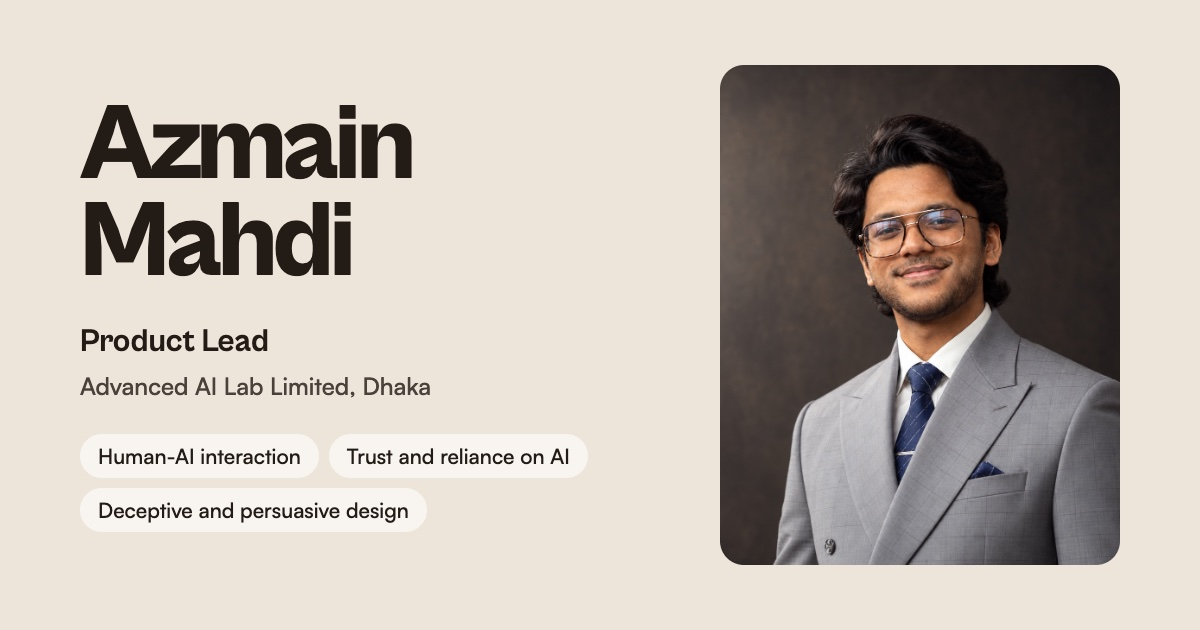
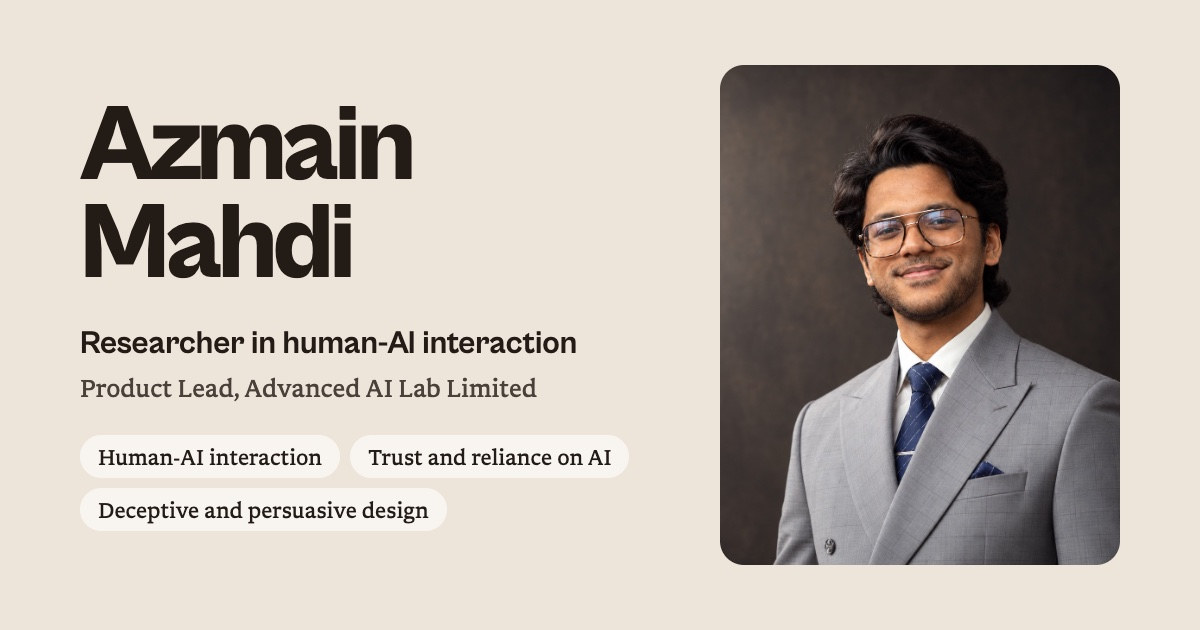
Research-first hero line; AM nav mark; acid yellow-green x-ray; share image and meta text

diff --git a/style.css b/style.css
@@ -539,7 +539,7 @@ nav .links a i{display:none}
 .xray-block{margin:32px 0 8px}
 .xray-block h4{font-size:22px;font-weight:500;letter-spacing:-.01em;margin:0 0 8px}
 .xr-intro{font-size:16px!important;color:var(--soft)!important;margin:0 0 18px!important}
-.xr{--x:50%;--warn:#FF7A59;position:relative;border-radius:20px;overflow:hidden;container-type:inline-size;touch-action:pan-y;user-select:none;-webkit-user-select:none;box-shadow:0 24px 48px -28px rgba(42,33,28,.5),0 0 0 1px var(--line);cursor:ew-resize}
+.xr{--x:50%;position:relative;border-radius:20px;overflow:hidden;container-type:inline-size;touch-action:pan-y;user-select:none;-webkit-user-select:none;box-shadow:0 24px 48px -28px rgba(42,33,28,.5),0 0 0 1px var(--line);cursor:ew-resize}
 .xr-layer{position:relative}
 .xr-ray{position:absolute;inset:0;clip-path:inset(0 0 0 var(--x));pointer-events:none}
 /* the fake site: a hotel booking page in its own browser window, so it reads as somebody else's website */
@@ -647,21 +647,21 @@ nav .links a i{display:none}
 .xr-ray .g5 b{background:transparent;border-color:rgba(140,170,210,.3);color:#7D8FA9}
 .xr-ray .hb-score li i{background:rgba(140,170,210,.18)}
 .xr-ray .hb-stars,.xr-ray .hb-title p,.xr-ray .hb-title p i,.xr-ray .hb-amen,.xr-ray .hb-crumb,.xr-ray .hb-price s,.xr-ray .hb-price span,.xr-ray .hb-note,.xr-ray .hb-score small,.xr-ray .hb-score li,.xr-ray .hb-f span,.xr-ray .hb-tabs,.xr-ray .hb-hl small,.xr-ray .hb-rev p,.xr-ray .hb-acts{color:#5E708A}
-.xr-ray .dp-p{color:#FFD9CC!important;background:rgba(255,122,89,.08);outline:1px solid rgba(255,122,89,.85);outline-offset:3px;border-radius:6px}
+.xr-ray .dp-p{color:var(--warn-ink)!important;background:color-mix(in srgb,var(--warn) 8%,transparent);outline:1px solid color-mix(in srgb,var(--warn) 85%,transparent);outline-offset:3px;border-radius:6px}
 .xr-ray .dp-p i,.xr-ray .dp-p small{color:var(--warn)!important}
-.xr-ray .dp-p .dp-box{outline-color:rgba(255,122,89,.85);color:#FFD9CC}
+.xr-ray .dp-p .dp-box{outline-color:color-mix(in srgb,var(--warn) 85%,transparent);color:var(--warn-ink)}
 .xr-ray .dp-p::before{content:attr(data-label);position:absolute;top:-19px;left:-4px;z-index:1;white-space:nowrap;padding:2px 8px;border-radius:999px;background:var(--warn);color:#0E1626;font:700 10px/1.4 'Libron',sans-serif;letter-spacing:.01em}
 @media (prefers-reduced-motion:no-preference){.xr-ray .dp-p{animation:xr-glow 3.2s ease-in-out infinite}}
-@keyframes xr-glow{50%{box-shadow:0 0 12px 0 rgba(255,122,89,.22)}}
+@keyframes xr-glow{50%{box-shadow:0 0 12px 0 color-mix(in srgb,var(--warn) 22%,transparent)}}
 /* the scan line */
-.xr-line{position:absolute;top:0;bottom:0;left:var(--x);width:2px;margin-left:-1px;background:var(--warn);box-shadow:0 0 10px 1px rgba(255,122,89,.4);pointer-events:none}
+.xr-line{position:absolute;top:0;bottom:0;left:var(--x);width:2px;margin-left:-1px;background:var(--warn);box-shadow:0 0 10px 1px color-mix(in srgb,var(--warn) 40%,transparent);pointer-events:none}
 .xr-grip{position:absolute;top:50%;left:50%;width:38px;height:38px;margin:-19px 0 0 -19px;border-radius:999px;background:#fff;color:#0D1B2E;display:grid;place-items:center;font-size:18px;box-shadow:0 4px 14px rgba(0,0,0,.25)}
 .xr-range{position:absolute;inset:auto 0 0 0;width:100%;opacity:0;height:1px;pointer-events:none}
 .xr:focus-within{outline:2px solid var(--accent);outline-offset:3px}
 /* legend */
 .xr-legend{list-style:none;padding:0;margin:22px 0 0;display:grid;grid-template-columns:repeat(5,minmax(0,1fr));gap:16px 24px}
 .xr-legend li{font-size:14.5px;line-height:1.5;color:var(--body)}
-.xr-legend b{display:table;margin-bottom:6px;padding:2px 9px;border-radius:999px;background:#FF7A59;color:#0E1626;font:700 12px/1.4 'Libron',sans-serif}
+.xr-legend b{display:table;margin-bottom:6px;padding:2px 9px;border-radius:999px;background:var(--warn);color:#0E1626;font:700 12px/1.4 'Libron',sans-serif}
 @media (max-width:900px){.xr-legend{grid-template-columns:1fr 1fr}}
 @media (max-width:640px){.xr-legend{grid-template-columns:1fr}.xray-block h4{font-size:20px}}
 
@@ -803,3 +803,14 @@ nav.over .me{opacity:0;pointer-events:none}
   .xr-ray .dp-p::before{top:-19px;right:auto;left:-4px;transform:none}
   .xr-ray .dp-p::after{display:none}
 }
+
+.xray-block{--warn:#D4FF3D;--warn-ink:color-mix(in srgb,var(--warn) 22%,#fff)}
+/* round 12 (16/10): AM mark in the nav; research-first hero line */
+nav .me{display:inline-flex;align-items:center;gap:10px;opacity:1!important;pointer-events:auto!important;text-decoration:none}
+nav .me .mk{width:34px;height:34px;border-radius:10px;background:var(--ink);color:var(--bg);display:grid;place-items:center;font-family:'Cabinet Grotesk',sans-serif;font-weight:800;font-size:14px;letter-spacing:-.02em;flex:none}
+nav .me .nm{transition:opacity .3s}
+nav.over .me .nm{opacity:0}
+.hero .intro .role{font-size:30px;line-height:1.2;letter-spacing:-.02em;margin-bottom:12px}
+.hero .aff{font-size:15px}
+.hero .aff .logo{width:20px;height:20px}
+@media (max-width:640px){.hero .intro .role{font-size:22px}.hero .aff{font-size:14px}nav .me .mk{width:30px;height:30px;font-size:13px}}

diff --git a/index.html b/index.html
@@ -4,19 +4,19 @@
 <meta charset="utf-8">
 <meta name="viewport" content="width=device-width, initial-scale=1">
 <title>Azmain Mahdi</title>
-<meta name="description" content="Azmain Mahdi, Product Lead at Advanced AI Lab Limited. Research on human-AI interaction, trust in AI and deceptive design.">
+<meta name="description" content="Azmain Mahdi, researcher in human-AI interaction: trust in AI and deceptive design. Product Lead at Advanced AI Lab Limited.">
 <link rel="icon" type="image/png" sizes="32x32" href="assets/favicon-32.png?v=4">
 <link rel="apple-touch-icon" href="assets/apple-touch-icon.png?v=4">
 <meta name="theme-color" content="#EDE5DA">
 <meta property="og:type" content="website">
 <meta property="og:site_name" content="Azmain Mahdi">
 <meta property="og:title" content="Azmain Mahdi">
-<meta property="og:description" content="Azmain Mahdi, Product Lead at Advanced AI Lab Limited. Research on human-AI interaction, trust in AI and deceptive design.">
+<meta property="og:description" content="Azmain Mahdi, researcher in human-AI interaction: trust in AI and deceptive design. Product Lead at Advanced AI Lab Limited.">
 <meta property="og:url" content="https://azmainmahdi.github.io/">
-<meta property="og:image" content="https://azmainmahdi.github.io/assets/og-image.jpg?v=4">
+<meta property="og:image" content="https://azmainmahdi.github.io/assets/og-image.jpg?v=5">
 <meta property="og:image:width" content="1200">
 <meta property="og:image:height" content="630">
-<meta property="og:image:alt" content="Azmain Mahdi, Product Lead, Advanced AI Lab Limited">
+<meta property="og:image:alt" content="Azmain Mahdi, researcher in human-AI interaction">
 <meta name="twitter:card" content="summary_large_image">
 <script>try{var t=localStorage.getItem('theme');if(t)document.documentElement.dataset.theme=t}catch(e){}document.documentElement.classList.add('js');window.addEventListener('pagereveal',function(e){try{var a=navigation.activation;if(!e.viewTransition||!a||!a.from)return;var o=['index','research','work'];function i(u){var m=/\/(\w+)\.html/.exec(u);return m?Math.max(0,o.indexOf(m[1])):0}e.viewTransition.types.add(i(a.entry.url)<i(a.from.url)?'back':'fwd')}catch(x){}});</script>
 <link rel="preconnect" href="https://cdn.jsdelivr.net" crossorigin>
@@ -24,11 +24,11 @@
 <link rel="preload" href="assets/fonts/libron-400.woff2" as="font" type="font/woff2" crossorigin>
 <script type="speculationrules">{"prerender":[{"where":{"href_matches":"/*.html"},"eagerness":"moderate"}]}</script>
 <link rel="stylesheet" href="https://cdn.jsdelivr.net/npm/@tabler/icons-webfont@3.19.0/dist/tabler-icons.min.css">
-<link rel="stylesheet" href="style.css?v=20261016e">
+<link rel="stylesheet" href="style.css?v=20261016g">
 </head>
 <body id="top">
 <nav><div class="wrap">
-<a class="me" href="index.html">Azmain Mahdi</a>
+<a class="me" href="index.html" aria-label="Azmain Mahdi, home"><span class="mk">AM</span><span class="nm">Azmain Mahdi</span></a>
 <div class="links"><a href="index.html" data-home class="on"><i class="ti ti-home" aria-hidden="true"></i><span>Home</span></a><a href="research.html"><i class="ti ti-flask" aria-hidden="true"></i><span>Research</span></a><a href="work.html"><i class="ti ti-briefcase" aria-hidden="true"></i><span>Work</span></a><a href="#methods" class="hide-sm" data-spy="methods"><i class="ti ti-tools" aria-hidden="true"></i><span>Methods</span></a><a href="#contact" data-spy="contact"><i class="ti ti-mail" aria-hidden="true"></i><span>Contact</span></a><button class="theme" aria-label="Switch light or dark mode"></button></div>
 </div></nav>
 
@@ -38,8 +38,8 @@
 <div>
 <h1>Azmain<br>Mahdi</h1>
 <div class="intro">
-<p class="role">Product Lead</p>
-<p class="aff"><img src="assets/aai-icon.svg" alt="" class="logo" width="24" height="24">Advanced AI Lab Limited (ACI AI Business), Dhaka</p>
+<p class="role">Researcher in human-AI interaction</p>
+<p class="aff"><img src="assets/aai-icon.svg" alt="" class="logo" width="24" height="24">Product Lead, Advanced AI Lab Limited</p>
 </div>
 <ul class="interests" aria-label="Research interests"><li>Human-AI interaction</li><li>Trust and reliance on AI</li><li>Deceptive and persuasive design</li><li>Responsible technology</li></ul>
 <div class="actions"><a class="btn primary hb-mail" href="mailto:azmain.one@gmail.com"><i class="ti ti-mail-filled bi"></i>Email<i class="ti ti-arrow-up-right ar"></i></a><a class="btn hb-li" href="https://www.linkedin.com/in/azmain-mahdi"><i class="ti ti-brand-linkedin bi"></i>LinkedIn<i class="ti ti-arrow-up-right ar"></i></a></div>
@@ -106,6 +106,6 @@
 </div>
 <div class="fine-row"><span>&copy; 2026 Azmain Mahdi</span><a href="#top">Back to top <i class="ti ti-arrow-up"></i></a></div>
 </div></footer>
-<script src="site.js?v=20261016e"></script>
+<script src="site.js?v=20261016g"></script>
 </body>
 </html>

diff --git a/research.html b/research.html
@@ -4,19 +4,19 @@
 <meta charset="utf-8">
 <meta name="viewport" content="width=device-width, initial-scale=1">
 <title>Research · Azmain Mahdi</title>
-<meta name="description" content="Azmain Mahdi, Product Lead at Advanced AI Lab Limited. Research on human-AI interaction, trust in AI and deceptive design.">
+<meta name="description" content="Azmain Mahdi, researcher in human-AI interaction: trust in AI and deceptive design. Product Lead at Advanced AI Lab Limited.">
 <link rel="icon" type="image/png" sizes="32x32" href="assets/favicon-32.png?v=4">
 <link rel="apple-touch-icon" href="assets/apple-touch-icon.png?v=4">
 <meta name="theme-color" content="#EDE5DA">
 <meta property="og:type" content="website">
 <meta property="og:site_name" content="Azmain Mahdi">
 <meta property="og:title" content="Azmain Mahdi">
-<meta property="og:description" content="Azmain Mahdi, Product Lead at Advanced AI Lab Limited. Research on human-AI interaction, trust in AI and deceptive design.">
+<meta property="og:description" content="Azmain Mahdi, researcher in human-AI interaction: trust in AI and deceptive design. Product Lead at Advanced AI Lab Limited.">
 <meta property="og:url" content="https://azmainmahdi.github.io/research.html">
-<meta property="og:image" content="https://azmainmahdi.github.io/assets/og-image.jpg?v=4">
+<meta property="og:image" content="https://azmainmahdi.github.io/assets/og-image.jpg?v=5">
 <meta property="og:image:width" content="1200">
 <meta property="og:image:height" content="630">
-<meta property="og:image:alt" content="Azmain Mahdi, Product Lead, Advanced AI Lab Limited">
+<meta property="og:image:alt" content="Azmain Mahdi, researcher in human-AI interaction">
 <meta name="twitter:card" content="summary_large_image">
 <script>try{var t=localStorage.getItem('theme');if(t)document.documentElement.dataset.theme=t}catch(e){}document.documentElement.classList.add('js');window.addEventListener('pagereveal',function(e){try{var a=navigation.activation;if(!e.viewTransition||!a||!a.from)return;var o=['index','research','work'];function i(u){var m=/\/(\w+)\.html/.exec(u);return m?Math.max(0,o.indexOf(m[1])):0}e.viewTransition.types.add(i(a.entry.url)<i(a.from.url)?'back':'fwd')}catch(x){}});</script>
 <link rel="preconnect" href="https://fonts.googleapis.com">
@@ -26,11 +26,11 @@
 <link rel="preload" href="assets/fonts/libron-400.woff2" as="font" type="font/woff2" crossorigin>
 <script type="speculationrules">{"prerender":[{"where":{"href_matches":"/*.html"},"eagerness":"moderate"}]}</script>
 <link rel="stylesheet" href="https://cdn.jsdelivr.net/npm/@tabler/icons-webfont@3.19.0/dist/tabler-icons.min.css">
-<link rel="stylesheet" href="style.css?v=20261016e">
+<link rel="stylesheet" href="style.css?v=20261016g">
 </head>
 <body id="top">
 <nav><div class="wrap">
-<a class="me" href="index.html">Azmain Mahdi</a>
+<a class="me" href="index.html" aria-label="Azmain Mahdi, home"><span class="mk">AM</span><span class="nm">Azmain Mahdi</span></a>
 <div class="links"><a href="index.html"><i class="ti ti-home" aria-hidden="true"></i><span>Home</span></a><a href="research.html" aria-current="page"><i class="ti ti-flask" aria-hidden="true"></i><span>Research</span></a><a href="work.html"><i class="ti ti-briefcase" aria-hidden="true"></i><span>Work</span></a><a href="index.html#methods" class="hide-sm"><i class="ti ti-tools" aria-hidden="true"></i><span>Methods</span></a><a href="#contact"><i class="ti ti-mail" aria-hidden="true"></i><span>Contact</span></a><button class="theme" aria-label="Switch light or dark mode"></button></div>
 </div></nav>
 
@@ -182,6 +182,6 @@
 </div>
 <div class="fine-row"><span>&copy; 2026 Azmain Mahdi</span><a href="#top">Back to top <i class="ti ti-arrow-up"></i></a></div>
 </div></footer>
-<script src="site.js?v=20261016e"></script>
+<script src="site.js?v=20261016g"></script>
 </body>
 </html>

diff --git a/work.html b/work.html
@@ -4,19 +4,19 @@
 <meta charset="utf-8">
 <meta name="viewport" content="width=device-width, initial-scale=1">
 <title>Work · Azmain Mahdi</title>
-<meta name="description" content="Azmain Mahdi, Product Lead at Advanced AI Lab Limited. Research on human-AI interaction, trust in AI and deceptive design.">
+<meta name="description" content="Azmain Mahdi, researcher in human-AI interaction: trust in AI and deceptive design. Product Lead at Advanced AI Lab Limited.">
 <link rel="icon" type="image/png" sizes="32x32" href="assets/favicon-32.png?v=4">
 <link rel="apple-touch-icon" href="assets/apple-touch-icon.png?v=4">
 <meta name="theme-color" content="#EDE5DA">
 <meta property="og:type" content="website">
 <meta property="og:site_name" content="Azmain Mahdi">
 <meta property="og:title" content="Azmain Mahdi">
-<meta property="og:description" content="Azmain Mahdi, Product Lead at Advanced AI Lab Limited. Research on human-AI interaction, trust in AI and deceptive design.">
+<meta property="og:description" content="Azmain Mahdi, researcher in human-AI interaction: trust in AI and deceptive design. Product Lead at Advanced AI Lab Limited.">
 <meta property="og:url" content="https://azmainmahdi.github.io/work.html">
-<meta property="og:image" content="https://azmainmahdi.github.io/assets/og-image.jpg?v=4">
+<meta property="og:image" content="https://azmainmahdi.github.io/assets/og-image.jpg?v=5">
 <meta property="og:image:width" content="1200">
 <meta property="og:image:height" content="630">
-<meta property="og:image:alt" content="Azmain Mahdi, Product Lead, Advanced AI Lab Limited">
+<meta property="og:image:alt" content="Azmain Mahdi, researcher in human-AI interaction">
 <meta name="twitter:card" content="summary_large_image">
 <script>try{var t=localStorage.getItem('theme');if(t)document.documentElement.dataset.theme=t}catch(e){}document.documentElement.classList.add('js');window.addEventListener('pagereveal',function(e){try{var a=navigation.activation;if(!e.viewTransition||!a||!a.from)return;var o=['index','research','work'];function i(u){var m=/\/(\w+)\.html/.exec(u);return m?Math.max(0,o.indexOf(m[1])):0}e.viewTransition.types.add(i(a.entry.url)<i(a.from.url)?'back':'fwd')}catch(x){}});</script>
 <link rel="preconnect" href="https://cdn.jsdelivr.net" crossorigin>
@@ -24,11 +24,11 @@
 <link rel="preload" href="assets/fonts/libron-400.woff2" as="font" type="font/woff2" crossorigin>
 <script type="speculationrules">{"prerender":[{"where":{"href_matches":"/*.html"},"eagerness":"moderate"}]}</script>
 <link rel="stylesheet" href="https://cdn.jsdelivr.net/npm/@tabler/icons-webfont@3.19.0/dist/tabler-icons.min.css">
-<link rel="stylesheet" href="style.css?v=20261016e">
+<link rel="stylesheet" href="style.css?v=20261016g">
 </head>
 <body id="top">
 <nav><div class="wrap">
-<a class="me" href="index.html">Azmain Mahdi</a>
+<a class="me" href="index.html" aria-label="Azmain Mahdi, home"><span class="mk">AM</span><span class="nm">Azmain Mahdi</span></a>
 <div class="links"><a href="index.html"><i class="ti ti-home" aria-hidden="true"></i><span>Home</span></a><a href="research.html"><i class="ti ti-flask" aria-hidden="true"></i><span>Research</span></a><a href="work.html" aria-current="page"><i class="ti ti-briefcase" aria-hidden="true"></i><span>Work</span></a><a href="index.html#methods" class="hide-sm"><i class="ti ti-tools" aria-hidden="true"></i><span>Methods</span></a><a href="#contact"><i class="ti ti-mail" aria-hidden="true"></i><span>Contact</span></a><button class="theme" aria-label="Switch light or dark mode"></button></div>
 </div></nav>
 
@@ -85,6 +85,6 @@
 </div>
 <div class="fine-row"><span>&copy; 2026 Azmain Mahdi</span><a href="#top">Back to top <i class="ti ti-arrow-up"></i></a></div>
 </div></footer>
-<script src="site.js?v=20261016e"></script>
+<script src="site.js?v=20261016g"></script>
 </body>
 </html>

diff --git a/site.js b/site.js
@@ -89,10 +89,12 @@
   ray.setAttribute('aria-hidden', 'true');
   plain.after(ray);
   var range = box.querySelector('.xr-range');
+  var capL = box.querySelector('.xr-cap.l'), capR = box.querySelector('.xr-cap.r');
   function set(p) {
     p = Math.max(0, Math.min(100, p)); box.style.setProperty('--x', p + '%'); range.value = p;
     // hide a line label when there is no room for it on its side
-    box.classList.toggle('cap-l', p < 20); box.classList.toggle('cap-r', p > 84);
+    var w = box.clientWidth, x = p / 100 * w;
+    box.classList.toggle('cap-l', x < capL.offsetWidth + 20); box.classList.toggle('cap-r', w - x < capR.offsetWidth + 20);
   }
 
   // the countdown restarts when it runs out, like the real thing
